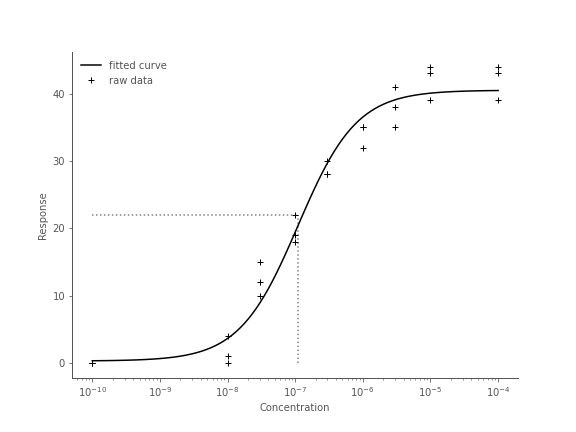
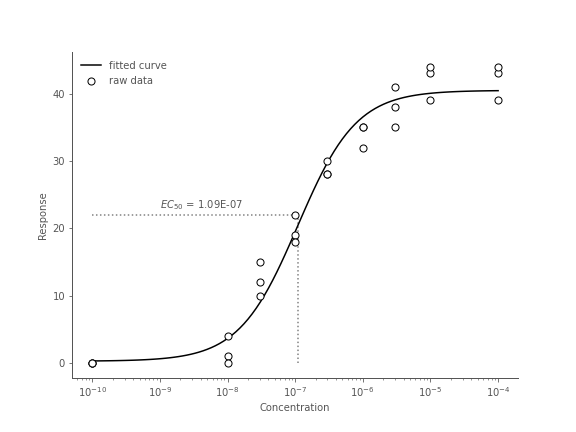
prettier plot

diff --git a/docs/conc_response_curves/plotting.md b/docs/conc_response_curves/plotting.md
@@ -50,13 +50,16 @@ Now we can plot both the raw data points and the fitted curve in matplotlib.
 
 ```python
 plt.plot(x_interpolated, y_interpolated, label="fitted curve", color="black")
-plt.plot(conc, response, "+", label="raw data", color="black")
+plt.scatter(
+    conc, response, label="raw data", color="black", facecolor="white", zorder=99
+)
 plt.vlines(
-  x=ec50, ymin=0, ymax=max(response)/2, linestyle="dotted", color="gray"
+    x=ec50, ymin=0, ymax=max(response)/2, linestyle="dotted", color="gray"
 )
 plt.hlines(
-  y=max(response)/2, xmin=min(conc), xmax=ec50, linestyle="dotted", color="gray"
+    y=max(response)/2, xmin=min(conc), xmax=ec50, linestyle="dotted", color="gray"
 )
+plt.text(x=1e-9, y=23, s=f"$EC_{{50}} = {ec50:.2E}$")
 plt.xlabel("Concentration")
 plt.ylabel("Response")
 plt.xscale("log")
